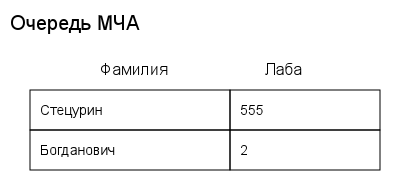
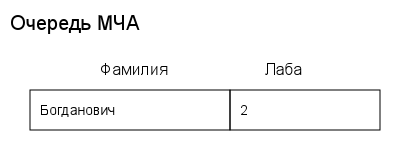
delete user done

diff --git a/src/commands/messageHandler.js b/src/commands/messageHandler.js
@@ -6,7 +6,8 @@ const {
 } = require('../bot/keyboards'); 
 
 const { 
-    getInfoById, insertIntoQueue, getQueue, isInUsers, 
+    getInfoById, insertIntoQueue, getQueue, isInUsers,
+    clearTable, 
 } = require('../database/database');
 
 const { sendMessageForAll } = require('./delayedMsgs');
@@ -269,6 +270,78 @@ function messageHandler(bot) {
             await sendMessageForAll(bot, text);
 
             ctx.session.step = null;
+        } else if (ctx.session.step === 'waiting_for_KProgToDelete') {
+            let surname = ctx.message.text;
+
+            let queue = await getQueue('KProg');
+            
+            const index = queue.findIndex(item => item.tg_id == ctx.from.id);
+            if(index === -1) {
+                await ctx.reply('Такого пользователя нет в таблице');
+            }
+            queue = queue.filter(item => item.surname !== surname);
+
+            if(queue?.length) {
+                insertIntoQueue(queue, 'KProg');
+            } else {
+                clearTable('KProg');
+            }
+
+            await ctx.reply('Пользователь удалён из таблицы');
+        } else if (ctx.session.step === 'waiting_for_ISPToDelete') {
+            let surname = ctx.message.text;
+
+            let queue = await getQueue('ISP');
+            
+            const index = queue.findIndex(item => item.tg_id == ctx.from.id);
+            if(index === -1) {
+                await ctx.reply('Такого пользователя нет в таблице');
+            }
+            queue = queue.filter(item => item.surname !== surname);
+
+            if(queue?.length) {
+                insertIntoQueue(queue, 'ISP');
+            } else {
+                clearTable('ISP');
+            }
+
+            await ctx.reply('Пользователь удалён из таблицы');
+        } else if (ctx.session.step === 'waiting_for_PZMAToDelete') {
+            let surname = ctx.message.text;
+
+            let queue = await getQueue('PZMA');
+            
+            const index = queue.findIndex(item => item.tg_id == ctx.from.id);
+            if(index === -1) {
+                await ctx.reply('Такого пользователя нет в таблице');
+            }
+            queue = queue.filter(item => item.surname !== surname);
+
+            if(queue?.length) {
+                insertIntoQueue(queue, 'PZMA');
+            } else {
+                clearTable('PZMA');
+            }
+
+            await ctx.reply('Пользователь удалён из таблицы');
+        } else if (ctx.session.step === 'waiting_for_MCHAToDelete') {
+            let surname = ctx.message.text;
+
+            let queue = await getQueue('MCHA');
+            
+            const index = queue.findIndex(item => item.tg_id == ctx.from.id);
+            if(index === -1) {
+                await ctx.reply('Такого пользователя нет в таблице');
+            }
+            queue = queue.filter(item => item.surname !== surname);
+
+            if(queue?.length) {
+                insertIntoQueue(queue, 'MCHA');
+            } else {
+                clearTable('MCHA');
+            }
+
+            await ctx.reply('Пользователь удалён из таблицы');
         } else {
             await ctx.reply('❓ Я не понимаю это сообщение. Для начала нажмите /start или перейдите в меню /menu');
         }

diff --git a/src/commands/adminMenu.js b/src/commands/adminMenu.js
@@ -72,6 +72,78 @@ function adminMenuCommand(bot) {
         })
     });
 
+    bot.callbackQuery('changeIsp', async (ctx) => {
+        await ctx.answerCallbackQuery();
+
+        await ctx.deleteMessage();
+
+        let status = "";
+        const queue = await getQueue('ISP');
+
+        if (queue?.length) {
+            await generateQueueTable(queue, 'ISPTable', 'ИСП');
+            let photoMessage = await ctx.replyWithPhoto(new InputFile("./src/tables/ISPTable.png"));
+            ctx.session.QueuePhotoMessageId = photoMessage.message_id;
+        } else {
+            status = "_Пока никакой очереди нет_";
+        }
+        
+
+        
+        await ctx.reply(`💻 *Очередь на ИСП\n\n*`+status+"\n\nВыеберете, что сделать с таблицой:", {
+            parse_mode: 'MarkdownV2',
+            reply_markup: doWithTable('ISP')
+        })
+    });
+
+    bot.callbackQuery('changePzma', async (ctx) => {
+        await ctx.answerCallbackQuery();
+
+        await ctx.deleteMessage();
+
+        let status = "";
+        const queue = await getQueue('PZMA');
+
+        if (queue?.length) {
+            await generateQueueTable(queue, 'PZMATable', 'ПЗМА');
+            let photoMessage = await ctx.replyWithPhoto(new InputFile("./src/tables/PZMATable.png"));
+            ctx.session.QueuePhotoMessageId = photoMessage.message_id;
+        } else {
+            status = "_Пока никакой очереди нет_";
+        }
+        
+
+        
+        await ctx.reply(`💻 *Очередь на ПЗМА\n\n*`+status+"\n\nВыеберете, что сделать с таблицой:", {
+            parse_mode: 'MarkdownV2',
+            reply_markup: doWithTable('PZMA')
+        })
+    });
+
+    bot.callbackQuery('changeMcha', async (ctx) => {
+        await ctx.answerCallbackQuery();
+
+        await ctx.deleteMessage();
+
+        let status = "";
+        const queue = await getQueue('MCHA');
+
+        if (queue?.length) {
+            await generateQueueTable(queue, 'MCHATable', 'МЧА');
+            let photoMessage = await ctx.replyWithPhoto(new InputFile("./src/tables/MCHATable.png"));
+            ctx.session.QueuePhotoMessageId = photoMessage.message_id;
+        } else {
+            status = "_Пока никакой очереди нет_";
+        }
+        
+
+        
+        await ctx.reply(`💻 *Очередь на МЧА\n\n*`+status+"\n\nВыеберете, что сделать с таблицой:", {
+            parse_mode: 'MarkdownV2',
+            reply_markup: doWithTable('MCHA')
+        })
+    });
+
     bot.callbackQuery(/clear:(.+)/, async (ctx) => {
         await ctx.answerCallbackQuery();
         const tableName = ctx.match[1];
@@ -83,6 +155,14 @@ function adminMenuCommand(bot) {
 
         clearTable(tableName);
         await ctx.callbackQuery.message.editText(`Таблица очищена`)
+    })
+
+    bot.callbackQuery(/deleteUserIn:(.+)/, async (ctx) => {
+        await ctx.answerCallbackQuery();
+        const tableName = ctx.match[1];
+
+        await ctx.callbackQuery.message.editText(`Напишите фамилию пользователя, которого нужно удалить:`);
+        ctx.session.step = `waiting_for_${tableName}ToDelete`;
     })
 
     bot.callbackQuery(/set(.*)Priority/, async (ctx) => {

diff --git a/src/bot/keyboards.js b/src/bot/keyboards.js
@@ -38,7 +38,7 @@ function getReturnKeyboard(condition, lessonType) {
 function doWithTable(lesson) {
     return new InlineKeyboard()
         .text('Изменить номера лаб у пользователя', `changeUsersLab:${lesson}`).row()
-        .text('Удалить пользователя из таблицы', `deleteUserFrom:${lesson}`).row()
+        .text('Удалить пользователя из таблицы', `deleteUserIn:${lesson}`).row()
         .text('Очистить таблицу', `clear:${lesson}`).row()
 
 }
